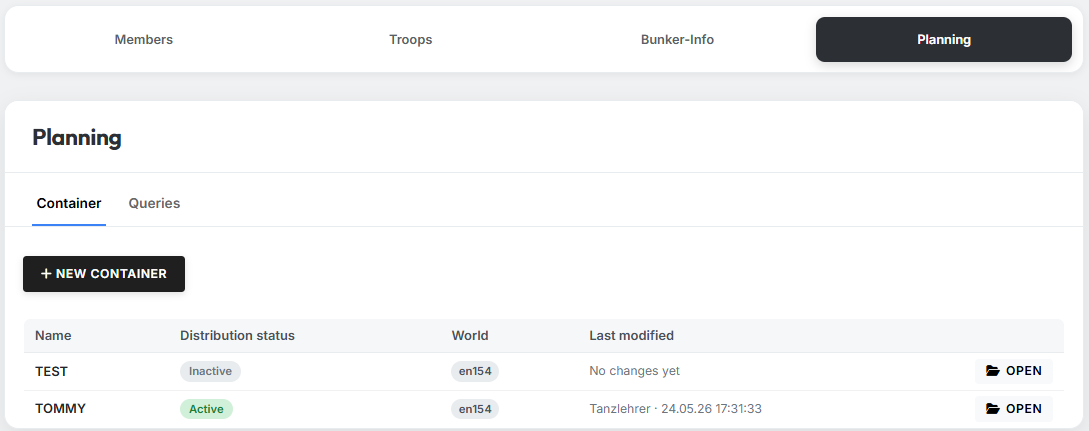
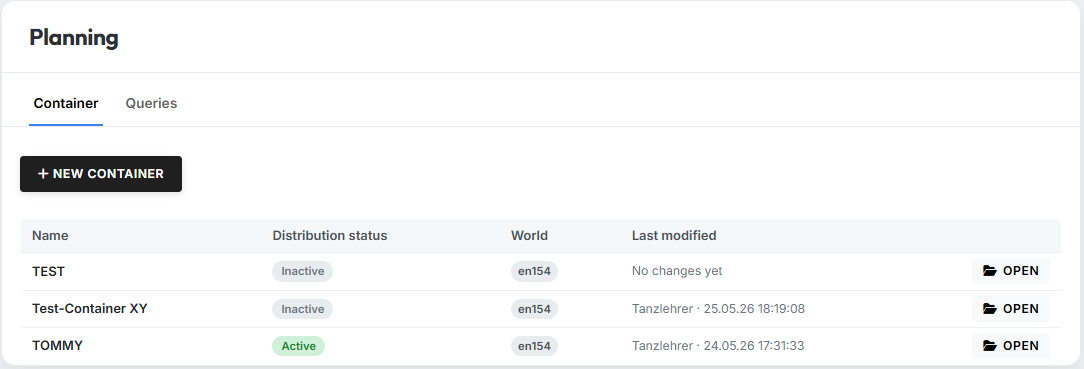
Deployed 48c71b9 with MkDocs version: 1.6.1

diff --git a/leader-view/planung/index.html b/leader-view/planung/index.html
@@ -2248,74 +2248,56 @@ Angriffspläne. Ein <strong>Container</strong> bündelt eine Operation — z. B.
 Off-Welle, eine AG-Aktion oder einen Zwischencleaner — mit allen Plänen
 und Befehlen und steuert die Verteilung an die einzelnen Spieler.</p>
 <p><a class="glightbox" data-type="image" data-width="auto" data-height="auto" href="../../assets/leaderview/21_leaderview_planning_container_overview.png" data-title="Container — Übersicht" data-desc-position="bottom"><img alt="Container — Übersicht" class="screenshot" src="../../assets/leaderview/21_leaderview_planning_container_overview.png"></a></p>
-<p>Die Übersichtstabelle zeigt alle bestehenden Container des Stammes:</p>
-<table>
-<thead>
-<tr>
-<th>Spalte</th>
-<th>Bedeutung</th>
-</tr>
-</thead>
-<tbody>
-<tr>
-<td><strong>Name</strong></td>
-<td>Frei wählbarer Name der Operation (z. B. <code>Op. Phoenix</code>)</td>
-</tr>
-<tr>
-<td><strong>Verteilungsstatus</strong></td>
-<td><strong>„Aktiv"</strong> = Container ist veröffentlicht, Spieler können den Plan abrufen. <strong>„Inaktiv"</strong> = Container ist offline / in Vorbereitung.</td>
-</tr>
-<tr>
-<td><strong>Welt</strong></td>
-<td>DS-Welt, für die der Container gilt (Badge)</td>
-</tr>
-<tr>
-<td><strong>Zuletzt geändert</strong></td>
-<td>Wer hat den Container zuletzt bearbeitet, und wann (oder <strong>„Noch keine Änderung"</strong>, wenn frisch angelegt)</td>
-</tr>
-<tr>
-<td><strong>Öffnen</strong></td>
-<td>Öffnet den Container in der Detailansicht</td>
-</tr>
-</tbody>
-</table>
-<p><a class="glightbox" data-type="image" data-width="auto" data-height="auto" href="../../assets/leaderview/39_leaderview_container_open_button.png" data-title="OPEN-Icon" data-desc-position="bottom"><img alt="OPEN-Icon" class="screenshot" src="../../assets/leaderview/39_leaderview_container_open_button.png"></a></p>
-<p>Über das Ordner-Icon in der Spalte <strong>„Öffnen"</strong> wechselst du in die
-Container-Detailansicht.</p>
+<p>Hier kannst du deine bestehenden Container öffnen sowie neue Container
+anlegen. Mit Klick auf <strong>„Öffnen"</strong> wechselst du in die jeweilige
+Container-Übersicht.</p>
 <h3 id="neuen-container-anlegen">Neuen Container anlegen<a class="headerlink" href="#neuen-container-anlegen" title="Permanent link">¶</a></h3>
+<p>Über einen Klick auf den Button <strong>„Neuer Container"</strong> legst du einen
+neuen Container an. Es öffnet sich ein Modal, in welchem du einen
+<strong>Namen</strong> für den Container festlegen musst (max. 50 Zeichen, z. B.
+<code>Op. Phoenix</code>).</p>
 <p><a class="glightbox" data-type="image" data-width="auto" data-height="auto" href="../../assets/leaderview/22_leaderview_planning_container_containeradd.png" data-title="Container anlegen" data-desc-position="bottom"><img alt="Container anlegen" class="screenshot" src="../../assets/leaderview/22_leaderview_planning_container_containeradd.png"></a></p>
-<p>Über <strong>„Neuer Container"</strong> öffnet sich der Dialog <strong>„Neuer Container"</strong>
-mit dem Feld <strong>„Name"</strong> (max. 50 Zeichen, z. B. <code>Op. Phoenix</code>). Der
-Container wird automatisch der aktuellen Welt zugeordnet und startet im
-Status <strong>„Inaktiv"</strong>.</p>
+<p>Nach dem Bestätigen wird der Container automatisch der aktuellen Welt
+zugeordnet, startet im Status <strong>„Inaktiv"</strong> und erscheint unmittelbar
+in der Container-Übersicht.</p>
 <h3 id="aufbau-eines-containers">Aufbau eines Containers<a class="headerlink" href="#aufbau-eines-containers" title="Permanent link">¶</a></h3>
+<p>Direkt nach dem Anlegen ist ein Container noch komplett leer — es sind
+weder Pläne noch Befehle hinterlegt. Das Grundgerüst mit Kopfbereich,
+Action-Leiste und den beiden Reitern siehst du aber bereits:</p>
 <p><a class="glightbox" data-type="image" data-width="auto" data-height="auto" href="../../assets/leaderview/23_leaderview_planning_container_overview_empty_container.png" data-title="Leerer Container" data-desc-position="bottom"><img alt="Leerer Container" class="screenshot" src="../../assets/leaderview/23_leaderview_planning_container_overview_empty_container.png"></a></p>
-<p>Direkt nach dem Öffnen siehst du drei Bereiche:</p>
+<p><strong>Kopfbereich</strong></p>
+<p>Im Kopfbereich findest du auf der linken Seite den Container-Namen
+sowie das Welt-Badge der zugehörigen DS-Welt. Über den Link
+<strong>„Zurück zur Übersicht"</strong> gelangst du zurück zur Container-Übersicht
+des Stammes.</p>
+<p>Auf der rechten Seite sitzen die container-weiten Aktionen:</p>
 <ul>
-<li><strong>Kopfbereich</strong> — links Container-Name + Welt-Badge sowie der Link
-  <strong>„Zurück zur Übersicht"</strong>, rechts der <strong>Veröffentlichungs-Toggle</strong>
-  (siehe <a href="#veroffentlichung">Veröffentlichung</a>), der Button
-  <strong>„Changelog"</strong> sowie <strong>„Container löschen"</strong> (siehe
-  <a href="#sonstiges">Sonstiges</a>).</li>
-<li>
-<p><strong>Action-Leiste</strong> — hier importierst und synchronisierst du die
-  Inhalte:</p>
+<li>der <strong>Veröffentlichungs-Toggle</strong> zum Aktivieren / Deaktivieren des
+  Containers (siehe <a href="#veroffentlichung">Veröffentlichung</a>),</li>
+<li>der Button <strong>„Changelog"</strong> für die Änderungs-Historie (siehe
+  <a href="#sonstiges">Sonstiges</a>),</li>
+<li>der Button <strong>„Container löschen"</strong> zum vollständigen Entfernen des
+  Containers (siehe <a href="#sonstiges">Sonstiges</a>).</li>
+</ul>
+<p><strong>Action-Leiste</strong></p>
+<p>Direkt unter dem Kopfbereich liegt die Action-Leiste mit den
+Werkzeugen zum Befüllen und Synchronisieren des Containers:</p>
 <p><a class="glightbox" data-type="image" data-width="auto" data-height="auto" href="../../assets/leaderview/40_leaderview_container_import_plan.png" data-title="Action-Leiste — Buttons" data-desc-position="bottom"><img alt="Action-Leiste — Buttons" class="screenshot" src="../../assets/leaderview/40_leaderview_container_import_plan.png"></a></p>
 <ul>
 <li><strong>„Plan auswählen…"</strong> — Dropdown mit allen Plänen aus dem
-  Off-/AG-Planungstool, die in den Container importiert werden
-  können.</li>
+  Off-/AG-Planungstool, die in den Container importiert werden können.</li>
 <li><strong>„Hinzufügen"</strong> — fügt den im Dropdown gewählten Plan hinzu.</li>
 <li><strong>„Pläne leeren"</strong> — entfernt alle Befehle aus dem Container.</li>
-<li><strong>„Veraltete ausblenden"</strong> — versteckt Befehle, deren
-  Abschickzeit bereits in der Vergangenheit liegt.</li>
+<li><strong>„Veraltete ausblenden"</strong> — versteckt Befehle, deren Abschickzeit
+  bereits in der Vergangenheit liegt.</li>
 <li><strong>„DSU-Synchronisation"</strong> — überträgt die aktuellen Befehle nach
   DS-Ultimate (pro Spieler ein DSU-Plan + ein „Gesamtplan").</li>
-<li><strong>Reiter</strong> — darunter wechselst du zwischen <strong>„Pläne"</strong> (Sicht pro
-  Spieler) und <strong>„Befehle"</strong> (Sicht pro Einzelangriff).</li>
 </ul>
-</li>
-</ul>
+<p><strong>Reiter „Pläne" und „Befehle"</strong></p>
+<p>Im unteren Bereich des Containers stehen die beiden Reiter <strong>„Pläne"</strong>
+(Sicht pro Spieler) und <strong>„Befehle"</strong> (Sicht pro Einzelangriff) zur
+Verfügung. Die Details zu beiden Reitern findest du in den jeweils
+gleichnamigen Abschnitten weiter unten.</p>
 <h3 id="reiter-plane">Reiter „Pläne"<a class="headerlink" href="#reiter-plane" title="Permanent link">¶</a></h3>
 <p><a class="glightbox" data-type="image" data-width="auto" data-height="auto" href="../../assets/leaderview/24_leaderview_planning_container_planstab.png" data-title="Reiter „Pläne&quot;" data-desc-position="bottom"><img alt="Reiter „Pläne&quot;" class="screenshot" src="../../assets/leaderview/24_leaderview_planning_container_planstab.png"></a></p>
 <p>Der Reiter <strong>„Pläne"</strong> ist die spieler-orientierte Sicht. Pro Spieler,